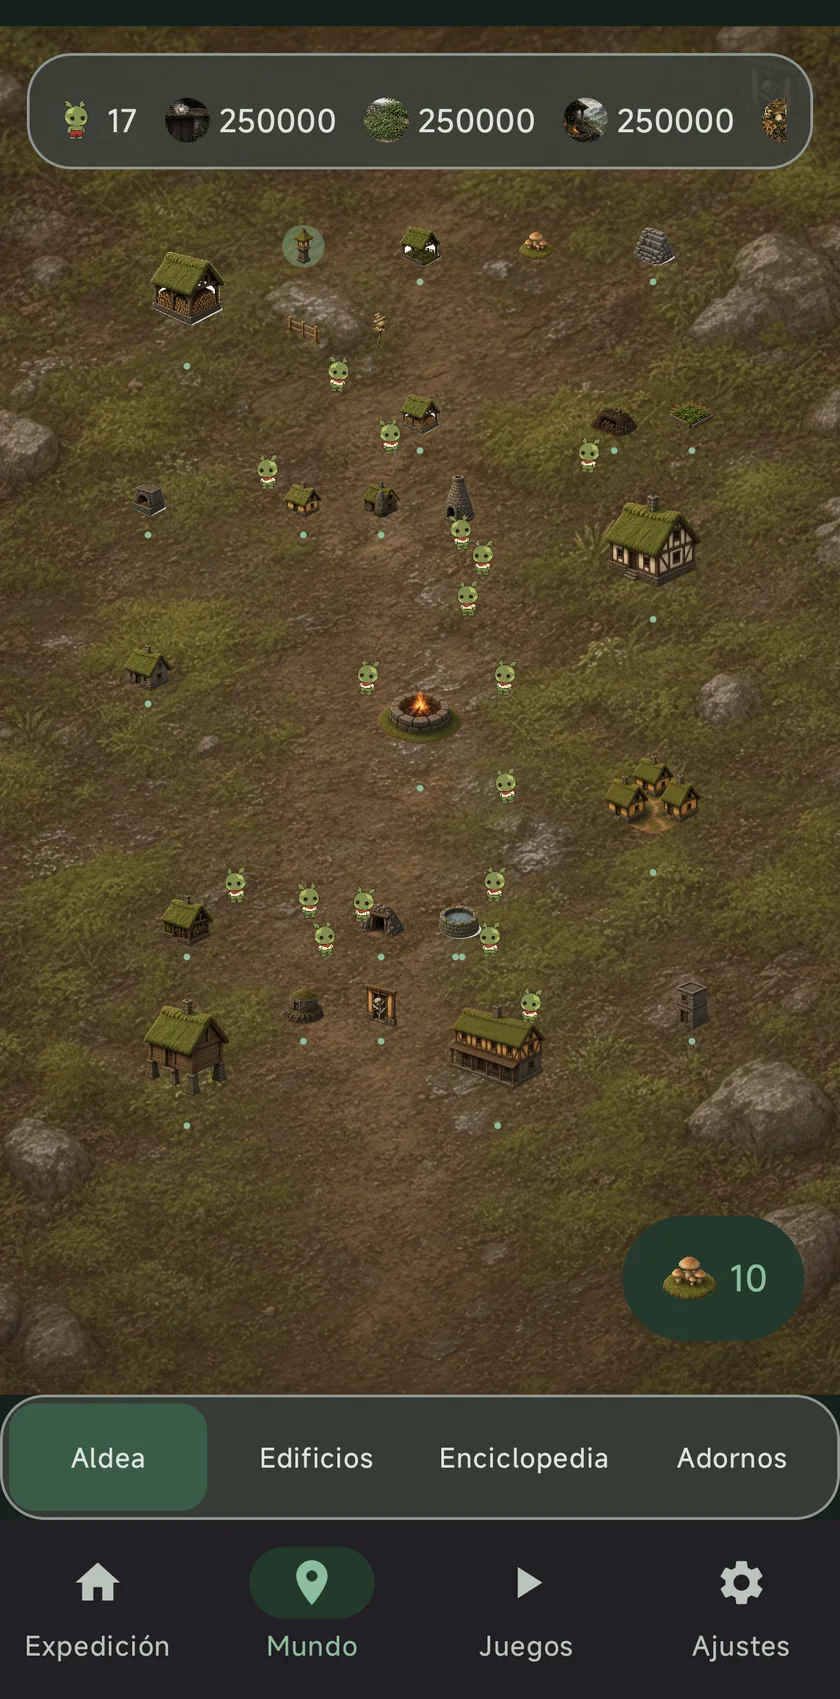
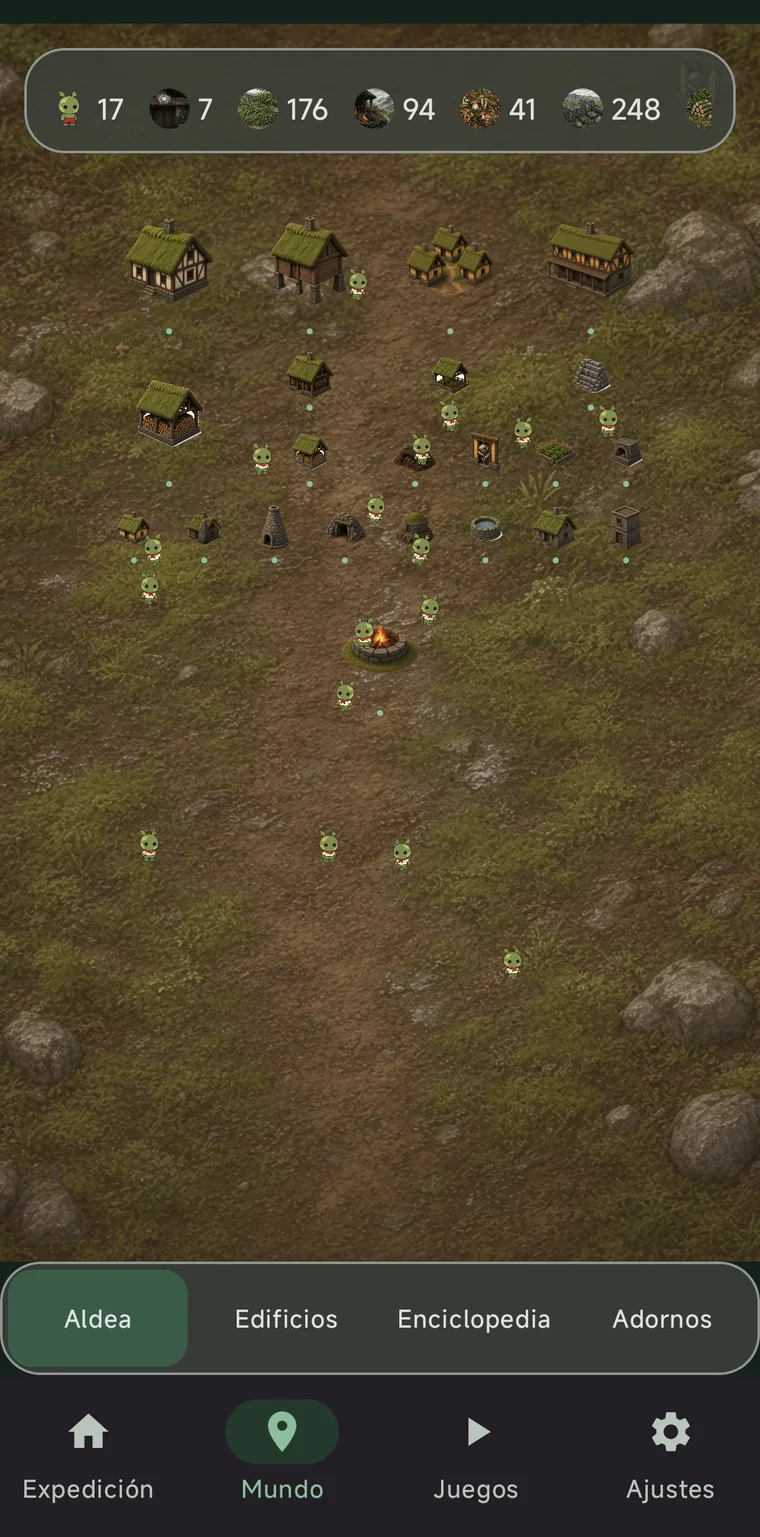
Cambiar las capturas por otras con cifras creíbles
Las anteriores salían de una partida de pruebas: 250000 de cada recurso,
que es lo primero que delata que nadie ha jugado a eso. Ahora la barra
marca 17 Iratxos, 7, 176, 94, 41 y 248, que es lo que se ve tras unas
semanas de uso.

Son cuatro en vez de tres. La enciclopedia entra porque es lo que
distingue a IRATXO de cualquier otra app de concentración: Basajaun,
Gaizkinak, Galtzagorriak, Jentilak. La rejilla pasa a auto-fit para que
las cuatro quepan y bajen a dos y a una según el ancho.

Hechas con los permisos ya concedidos, así que la pantalla de expedición
ya no lleva el aviso naranja, y con los edificios, las zonas, los
minijuegos y la enciclopedia desbloqueados para que no haya huecos.

diff --git a/en.html b/en.html
@@ -73,15 +73,19 @@
     </section>
     <section class="shots" aria-label="Screenshots">
       <figure class="glass">
-        <img src="art/shots/aldea.webp" width="840" height="1699" loading="lazy" alt="IRATXO's village, with houses, Iratxos and the fire in the middle.">
+        <img src="art/shots/aldea.webp" width="760" height="1537" loading="lazy" alt="IRATXO's village, with houses, Iratxos and the fire in the middle.">
         <figcaption>The village grows with what they bring back.</figcaption>
       </figure>
       <figure class="glass">
-        <img src="art/shots/edificios.webp" width="840" height="1699" loading="lazy" alt="IRATXO's building list, with the current level of each one.">
+        <img src="art/shots/edificios.webp" width="760" height="1537" loading="lazy" alt="IRATXO's building list, with the level of each one.">
         <figcaption>What there is to build.</figcaption>
       </figure>
       <figure class="glass">
-        <img src="art/shots/juegos.webp" width="840" height="1699" loading="lazy" alt="The clearing games, with your best score for each.">
+        <img src="art/shots/enciclopedia.webp" width="760" height="1537" loading="lazy" alt="IRATXO's encyclopedia: Basajaun, Gaizkinak, Galtzagorriak, Iratxoak, Jentilak.">
+        <figcaption>Basque mythology, treated with respect.</figcaption>
+      </figure>
+      <figure class="glass">
+        <img src="art/shots/juegos.webp" width="760" height="1537" loading="lazy" alt="The clearing games in IRATXO.">
         <figcaption>Short games between expeditions. Never during one.</figcaption>
       </figure>
     </section>

diff --git a/index.html b/index.html
@@ -73,15 +73,19 @@
     </section>
     <section class="shots" aria-label="Capturas">
       <figure class="glass">
-        <img src="art/shots/aldea.webp" width="840" height="1699" loading="lazy" alt="La aldea de IRATXO, con casas, Iratxos y la hoguera en el centro.">
+        <img src="art/shots/aldea.webp" width="760" height="1537" loading="lazy" alt="La aldea de IRATXO, con casas, Iratxos y la hoguera en el centro.">
         <figcaption>La aldea crece con lo que traen.</figcaption>
       </figure>
       <figure class="glass">
-        <img src="art/shots/edificios.webp" width="840" height="1699" loading="lazy" alt="La lista de edificios de IRATXO, con su nivel actual.">
+        <img src="art/shots/edificios.webp" width="760" height="1537" loading="lazy" alt="La lista de edificios de IRATXO, con el nivel de cada uno.">
         <figcaption>Lo que se puede levantar.</figcaption>
       </figure>
       <figure class="glass">
-        <img src="art/shots/juegos.webp" width="840" height="1699" loading="lazy" alt="Los juegos del claro, con las mejores marcas de cada uno.">
+        <img src="art/shots/enciclopedia.webp" width="760" height="1537" loading="lazy" alt="La enciclopedia de IRATXO: Basajaun, Gaizkinak, Galtzagorriak, Iratxoak, Jentilak.">
+        <figcaption>Mitología vasca, tratada con respeto.</figcaption>
+      </figure>
+      <figure class="glass">
+        <img src="art/shots/juegos.webp" width="760" height="1537" loading="lazy" alt="Los juegos del claro de IRATXO.">
         <figcaption>Juegos cortos entre expediciones. Nunca durante una.</figcaption>
       </figure>
     </section>

diff --git a/eu.html b/eu.html
@@ -73,15 +73,19 @@
     </section>
     <section class="shots" aria-label="Argazkiak">
       <figure class="glass">
-        <img src="art/shots/aldea.webp" width="840" height="1699" loading="lazy" alt="IRATXOren herrixka, etxeekin, Iratxoekin eta erdian sua.">
+        <img src="art/shots/aldea.webp" width="760" height="1537" loading="lazy" alt="IRATXOren herrixka, etxeekin, Iratxoekin eta erdian sua.">
         <figcaption>Herrixka ekartzen dutenarekin hazten da.</figcaption>
       </figure>
       <figure class="glass">
-        <img src="art/shots/edificios.webp" width="840" height="1699" loading="lazy" alt="IRATXOren eraikinen zerrenda, bakoitzaren maila oraingoarekin.">
+        <img src="art/shots/edificios.webp" width="760" height="1537" loading="lazy" alt="IRATXOren eraikinen zerrenda, bakoitzaren mailarekin.">
         <figcaption>Zer eraiki daitekeen.</figcaption>
       </figure>
       <figure class="glass">
-        <img src="art/shots/juegos.webp" width="840" height="1699" loading="lazy" alt="Soilguneko jokoak, bakoitzaren marka onenarekin.">
+        <img src="art/shots/enciclopedia.webp" width="760" height="1537" loading="lazy" alt="IRATXOren entziklopedia: Basajaun, Gaizkinak, Galtzagorriak, Iratxoak, Jentilak.">
+        <figcaption>Euskal mitologia, errespetuz hartuta.</figcaption>
+      </figure>
+      <figure class="glass">
+        <img src="art/shots/juegos.webp" width="760" height="1537" loading="lazy" alt="IRATXOren soilguneko jokoak.">
         <figcaption>Joko laburrak espedizioen artean. Inoiz ez batean zehar.</figcaption>
       </figure>
     </section>

diff --git a/style.css b/style.css
@@ -265,7 +265,7 @@ h1 {
 
 .cards {
   display: grid;
-  grid-template-columns: repeat(3, 1fr);
+  grid-template-columns: repeat(auto-fit, minmax(210px, 1fr));
   gap: 16px;
   margin-top: 28px;
 }
@@ -415,7 +415,7 @@ main .glass:hover {
   display: block;
   width: 100%;
   height: auto;
-  aspect-ratio: 840 / 1699;
+  aspect-ratio: 760 / 1537;
   border-radius: 14px;
   border: 1px solid var(--bark);
 }
@@ -478,7 +478,7 @@ main .glass:hover {
 @media (max-width: 800px) {
   .hero,
   .cards { grid-template-columns: 1fr; }
-  .shots { grid-template-columns: 1fr; }
+  .shots { grid-template-columns: repeat(auto-fit, minmax(240px, 1fr)); }
   body { padding-top: 0; }
   .bar { top: 0; width: 100%; margin: 0; border-radius: 0; padding: 6px 8px; }
   .menu-toggle {
